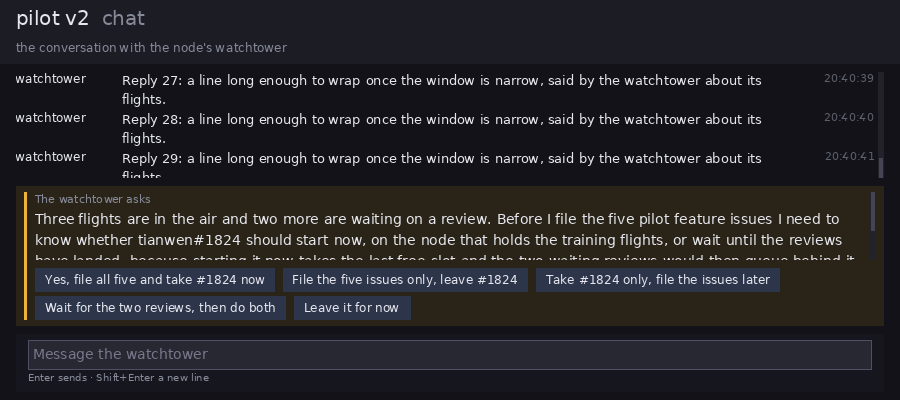
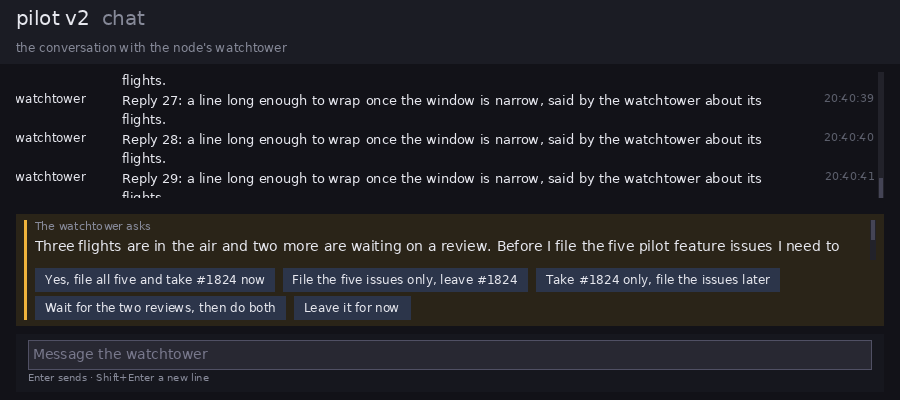
Chat: the question card takes its share of the page by the layout engine (content-capped stars, a spacer holding the foot) instead of reckoning the page's height and the choices' rows by hand, which the layout ratchet refused (ChatView had two DpiScale divisions); the card's floor holds the text's f
Claude-Session: https://claude.ai/code/session_01DigkA8KKpgkLtWwkg6RbqR

diff --git a/src/Pilot.Ui/ChatView.cs b/src/Pilot.Ui/ChatView.cs
@@ -24,26 +24,20 @@ internal sealed class ChatView<TSurface>(Renderer<TSurface> renderer) : PixelWid
 
     private const float Gutter = 16f;
 
-    // The question's card is at most this share of the page's height, and never under this many design units, so a long
-    // question with many choices on a short window cannot squeeze the feed to nothing or push the box off the page: past it
-    // the question's text scrolls on its own, the choices under it always in view.
-    private const float AskShare = 0.35f;
-    private const float AskMinHeight = 96f;
+    // The question's card and the feed share the page's height by these weights, the card taking its content up to its share
+    // and never under AskMinHeight, so a long question with many choices on a short window cannot squeeze the feed to nothing
+    // or push the box off the page: past its share the question's text scrolls on its own, the choices under it always in view.
+    private const float AskWeight = 35f;
+    private const float FeedWeight = 65f;
     private const float AskPadY = 6f;
 
-    // The choices under the question's text: a pill's height, the gaps between pills and between rows, an average glyph's
-    // width and a pill's padding, for reckoning how tall the wrapped choices will be before they are laid out; and the least
-    // the text keeps, a header and a line.
+    // The choices under the question's text, and the least the text keeps: a header and a line. The card's floor holds those
+    // and two rows of choices, so a short window never draws a row of pills past the card.
     private const float ChoiceHeight = 24f;
     private const float ChoiceGap = 8f;
     private const float ChoiceLineGap = 4f;
-    private const float ChoiceGlyphWidth = 7f;
-    private const float ChoicePadX = 20f;
     private const float AskTextMinHeight = 40f;
-
-    // The page's size in design units as of the last render, for the card's cap; what the page is assumed to be before one.
-    private const float AssumedPageHeight = 600f;
-    private const float AssumedPageWidth = 1200f;
+    private const float AskMinHeight = 2 * AskPadY + AskTextMinHeight + ChoiceGap + 2 * ChoiceHeight + ChoiceLineGap;
 
     private static readonly RGBAColor32 PageBg = TranscriptPane.Ground;
     private static readonly RGBAColor32 FootBg = new(0x16, 0x17, 0x1e, 0xff);
@@ -66,11 +60,9 @@ internal sealed class ChatView<TSurface>(Renderer<TSurface> renderer) : PixelWid
     private readonly TranscriptEntryView _entries = new() { PromptLabel = "you", AssistantLabel = "watchtower", AssistantLines = int.MaxValue };
     private readonly ChatComposer _composer = new();
 
-    // The question card's own scroll, fresh for each question so a new one starts at its top; and the page height it is capped by.
+    // The question card's own scroll, fresh for each question so a new one starts at its top.
     private ListScrollController _askScroll = NewAskScroll();
     private string? _askedKey;
-    private float _pageHeight = AssumedPageHeight;
-    private float _pageWidth = AssumedPageWidth;
 
     // A message that was refused or a choice that did not go, said in the chat in red until the next one goes; and how many
     // are on their way. Swapped whole from the pool.
@@ -283,8 +275,6 @@ internal sealed class ChatView<TSurface>(Renderer<TSurface> renderer) : PixelWid
     public void Render(RectF32 bounds)
     {
         BeginFrame();
-        _pageHeight = bounds.Height / DpiScale;
-        _pageWidth = bounds.Width / DpiScale;
         RenderLayout(Tree(), bounds);
     }
 
@@ -348,7 +338,9 @@ internal sealed class ChatView<TSurface>(Renderer<TSurface> renderer) : PixelWid
             ? Layout.Builder.VStack(list.HStar())
             : asked is null
                 ? Layout.Builder.VStack(list.HStar(), Foot())
-                : Layout.Builder.VStack(list.HStar(), asked, Foot());
+                // The feed and the card take their content up to their shares; a short feed leaves the room to a spacer, so the
+                // card and the box stay at the page's foot.
+                : Layout.Builder.VStack(list.HStarUpToContent(FeedWeight), Layout.Builder.Spacer().HStar(), asked, Foot());
         var body = page.WithGap(8f).Pad(Gutter, 8f).Stretch();
         var whole = Layout.Builder.VStack(top, body.HStar()).Bg(PageBg).Stretch();
         return About?.Over(whole) ?? whole;
@@ -376,11 +368,8 @@ internal sealed class ChatView<TSurface>(Renderer<TSurface> renderer) : PixelWid
             // Whole, never cut: a long question scrolls inside the capped card instead.
             body.Add(WrappedProse.Of(question, 14f, Bright));
         }
-        // The text alone scrolls, capped so the card leaves the feed its room and ends above the box; the bar beside it and the
-        // card's padding stay put. A gutter keeps the text clear of the scrollbar drawn over its right edge.
-        var cap = Math.Max(AskMinHeight, _pageHeight * AskShare) - 2 * AskPadY;
-        var choicesHeight = ChoicesHeight(choices);
-        var textCap = Math.Max(AskTextMinHeight, cap - choicesHeight - (choicesHeight > 0f ? ChoiceGap : 0f));
+        // The text alone scrolls, in what the card's share leaves it above the choices; the bar beside it and the card's padding
+        // stay put. A gutter keeps the text clear of the scrollbar drawn over its right edge.
         var text = Layout.Builder.VStack(
                 Layout.Builder.HStack(
                         Layout.Builder.VStack([.. body]).WithGap(4f).WStar(),
@@ -389,15 +378,15 @@ internal sealed class ChatView<TSurface>(Renderer<TSurface> renderer) : PixelWid
                     .HAuto())
             .WithScroll(_askScroll)
             .WStar()
-            .HClamp(0f, textCap);
+            .HStarUpToContent(1f, AskTextMinHeight);
         var parts = new List<Layout.Node> { text };
         if (choices.Length > 0)
         {
             // The choices stay under the text, outside its scroll, so they are always in view and reachable.
             parts.Add(Layout.Builder.WrapH([.. choices.Select((choice, i) => CardsView<TSurface>.Pill(choice, $"chat:choice:{i + 1}", () => Choose(choice)))])
-                .WithGap(8f).WithLineGap(4f).WStar());
+                .WithGap(ChoiceGap).WithLineGap(ChoiceLineGap).WStar());
         }
-        var scrolling = Layout.Builder.VStack([.. parts]).WithGap(ChoiceGap).WStar().HAuto();
+        var scrolling = Layout.Builder.VStack([.. parts]).WithGap(ChoiceGap).WStar().HStar();
         return Layout.Builder.HStack(
                 Layout.Builder.Spacer().Bg(Prompt).WFixed(3f).HStar(),
                 scrolling)
@@ -405,35 +394,7 @@ internal sealed class ChatView<TSurface>(Renderer<TSurface> renderer) : PixelWid
             .Pad(8f, AskPadY)
             .Bg(Marked)
             .WStar()
-            .HAuto();
-    }
-
-    // How tall the wrapped choices come out, reckoned from their labels and the card's width: the pills wrap as laid out, so
-    // this is a close guess that errs tall (the glyph's width is generous), leaving the card a little under its cap.
-    private float ChoicesHeight(string[] choices)
-    {
-        if (choices.Length == 0)
-        {
-            return 0f;
-        }
-        // The card's inner width: the page less its gutters, the card's padding, the bar's stripe and the gap after it.
-        var width = _pageWidth - 2 * Gutter - 16f - 3f - 8f;
-        var rows = 1;
-        var used = 0f;
-        foreach (var choice in choices)
-        {
-            var pill = choice.Length * ChoiceGlyphWidth + ChoicePadX;
-            if (used > 0f && used + ChoiceGap + pill > width)
-            {
-                rows++;
-                used = pill;
-            }
-            else
-            {
-                used += (used > 0f ? ChoiceGap : 0f) + pill;
-            }
-        }
-        return rows * ChoiceHeight + (rows - 1) * ChoiceLineGap;
+            .HStarUpToContent(AskWeight, AskMinHeight);
     }
 
     // A choice answers the question: said to the watchtower as the person's message, through the same send as a typed one.
